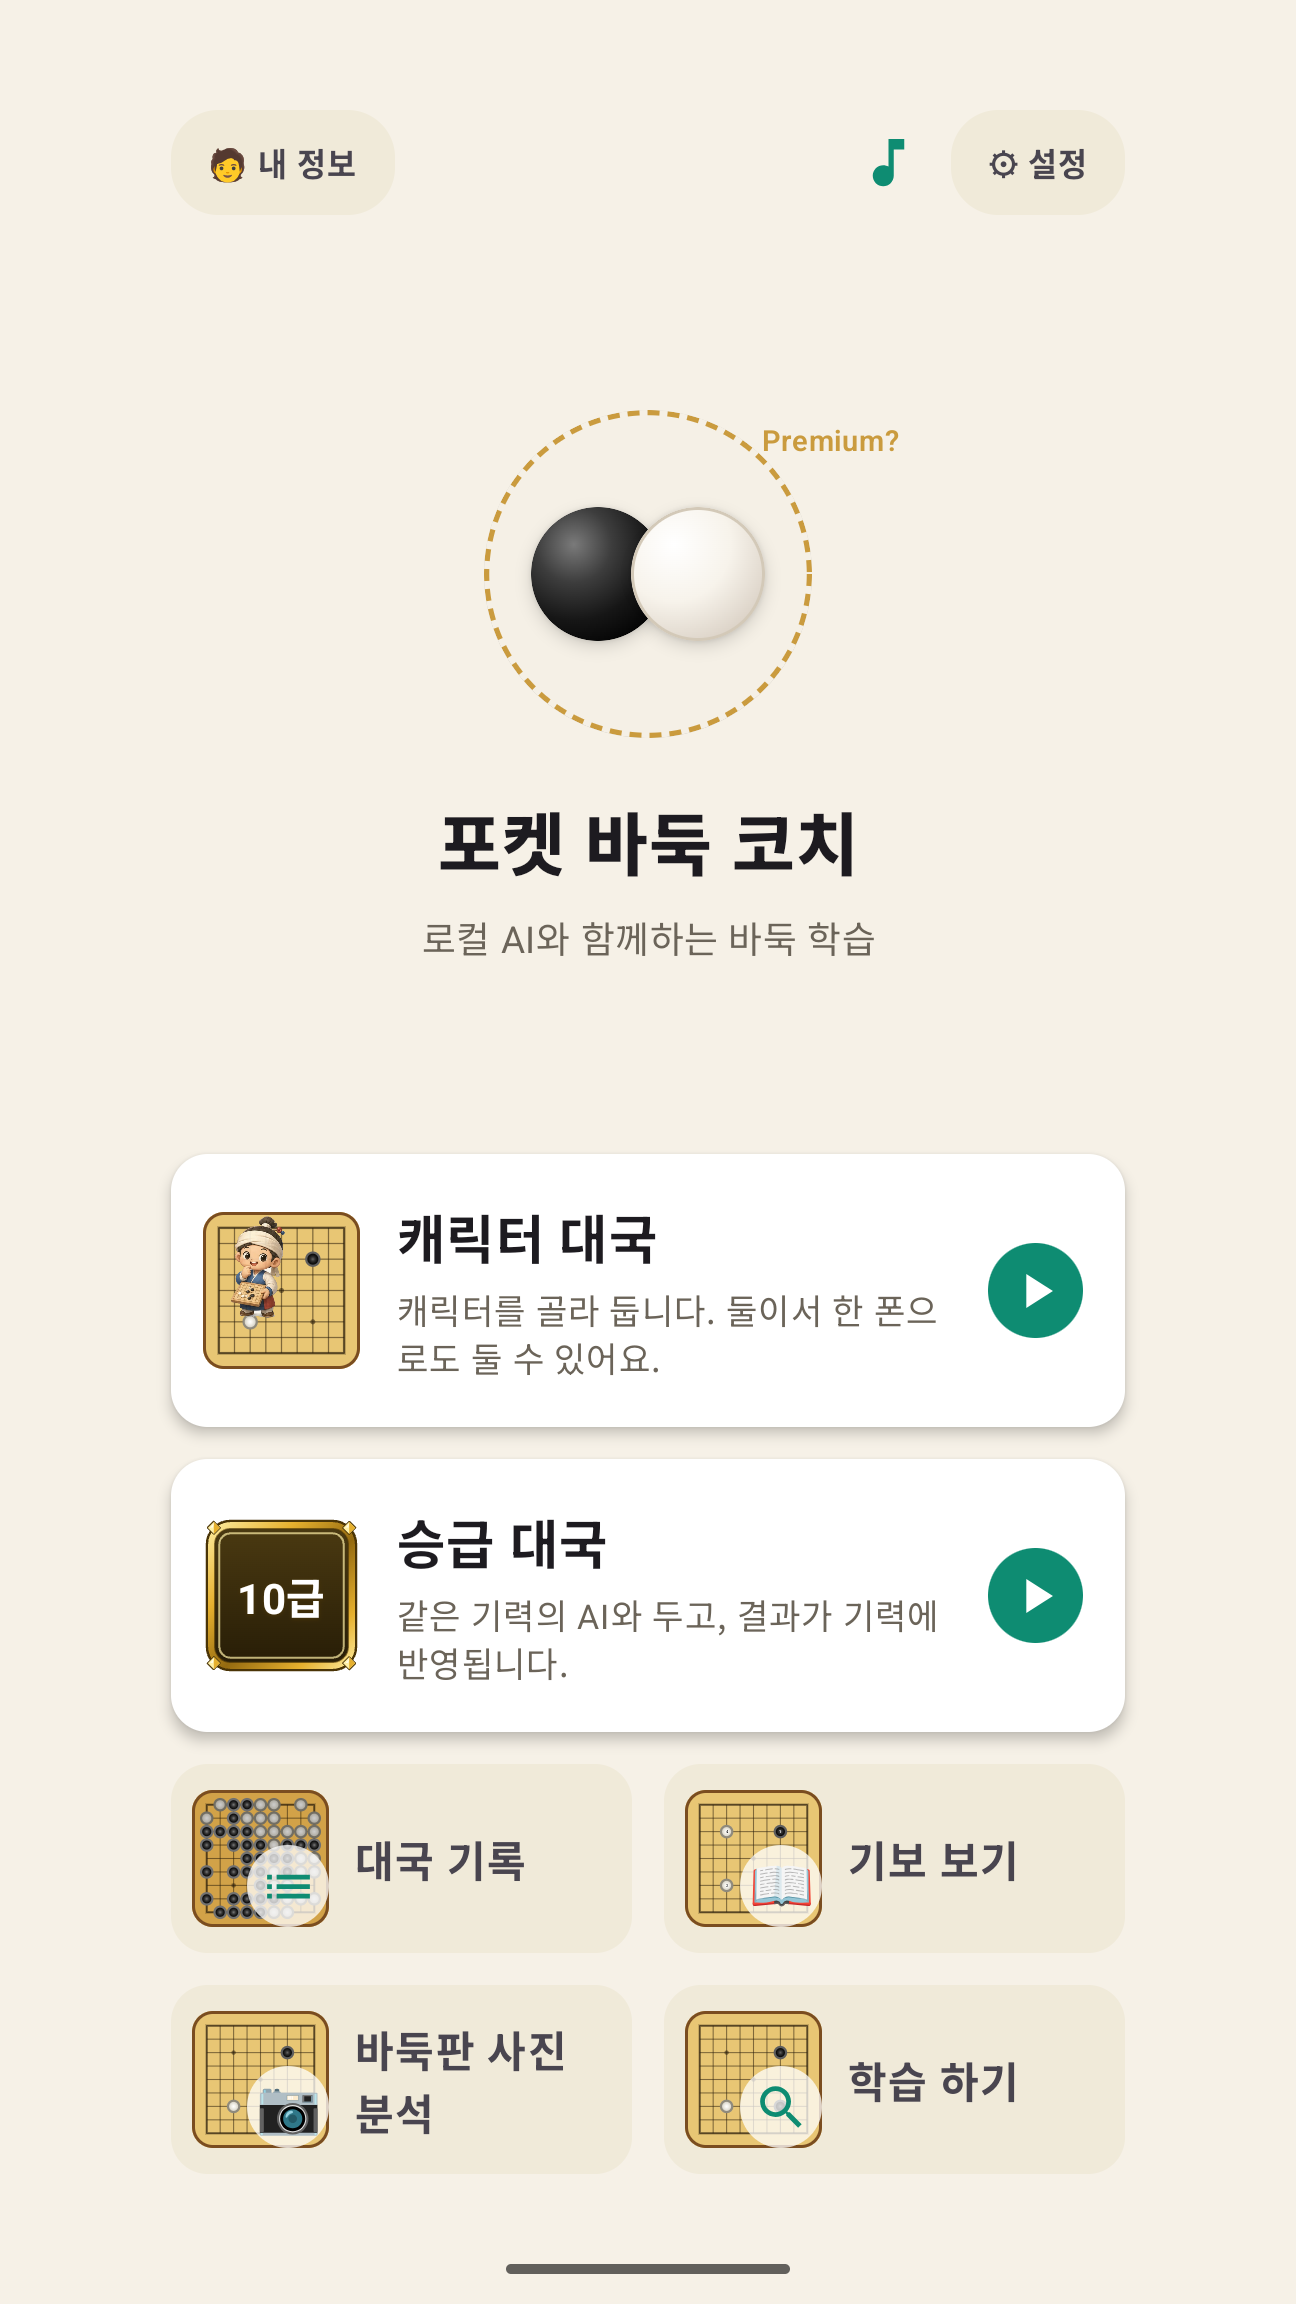
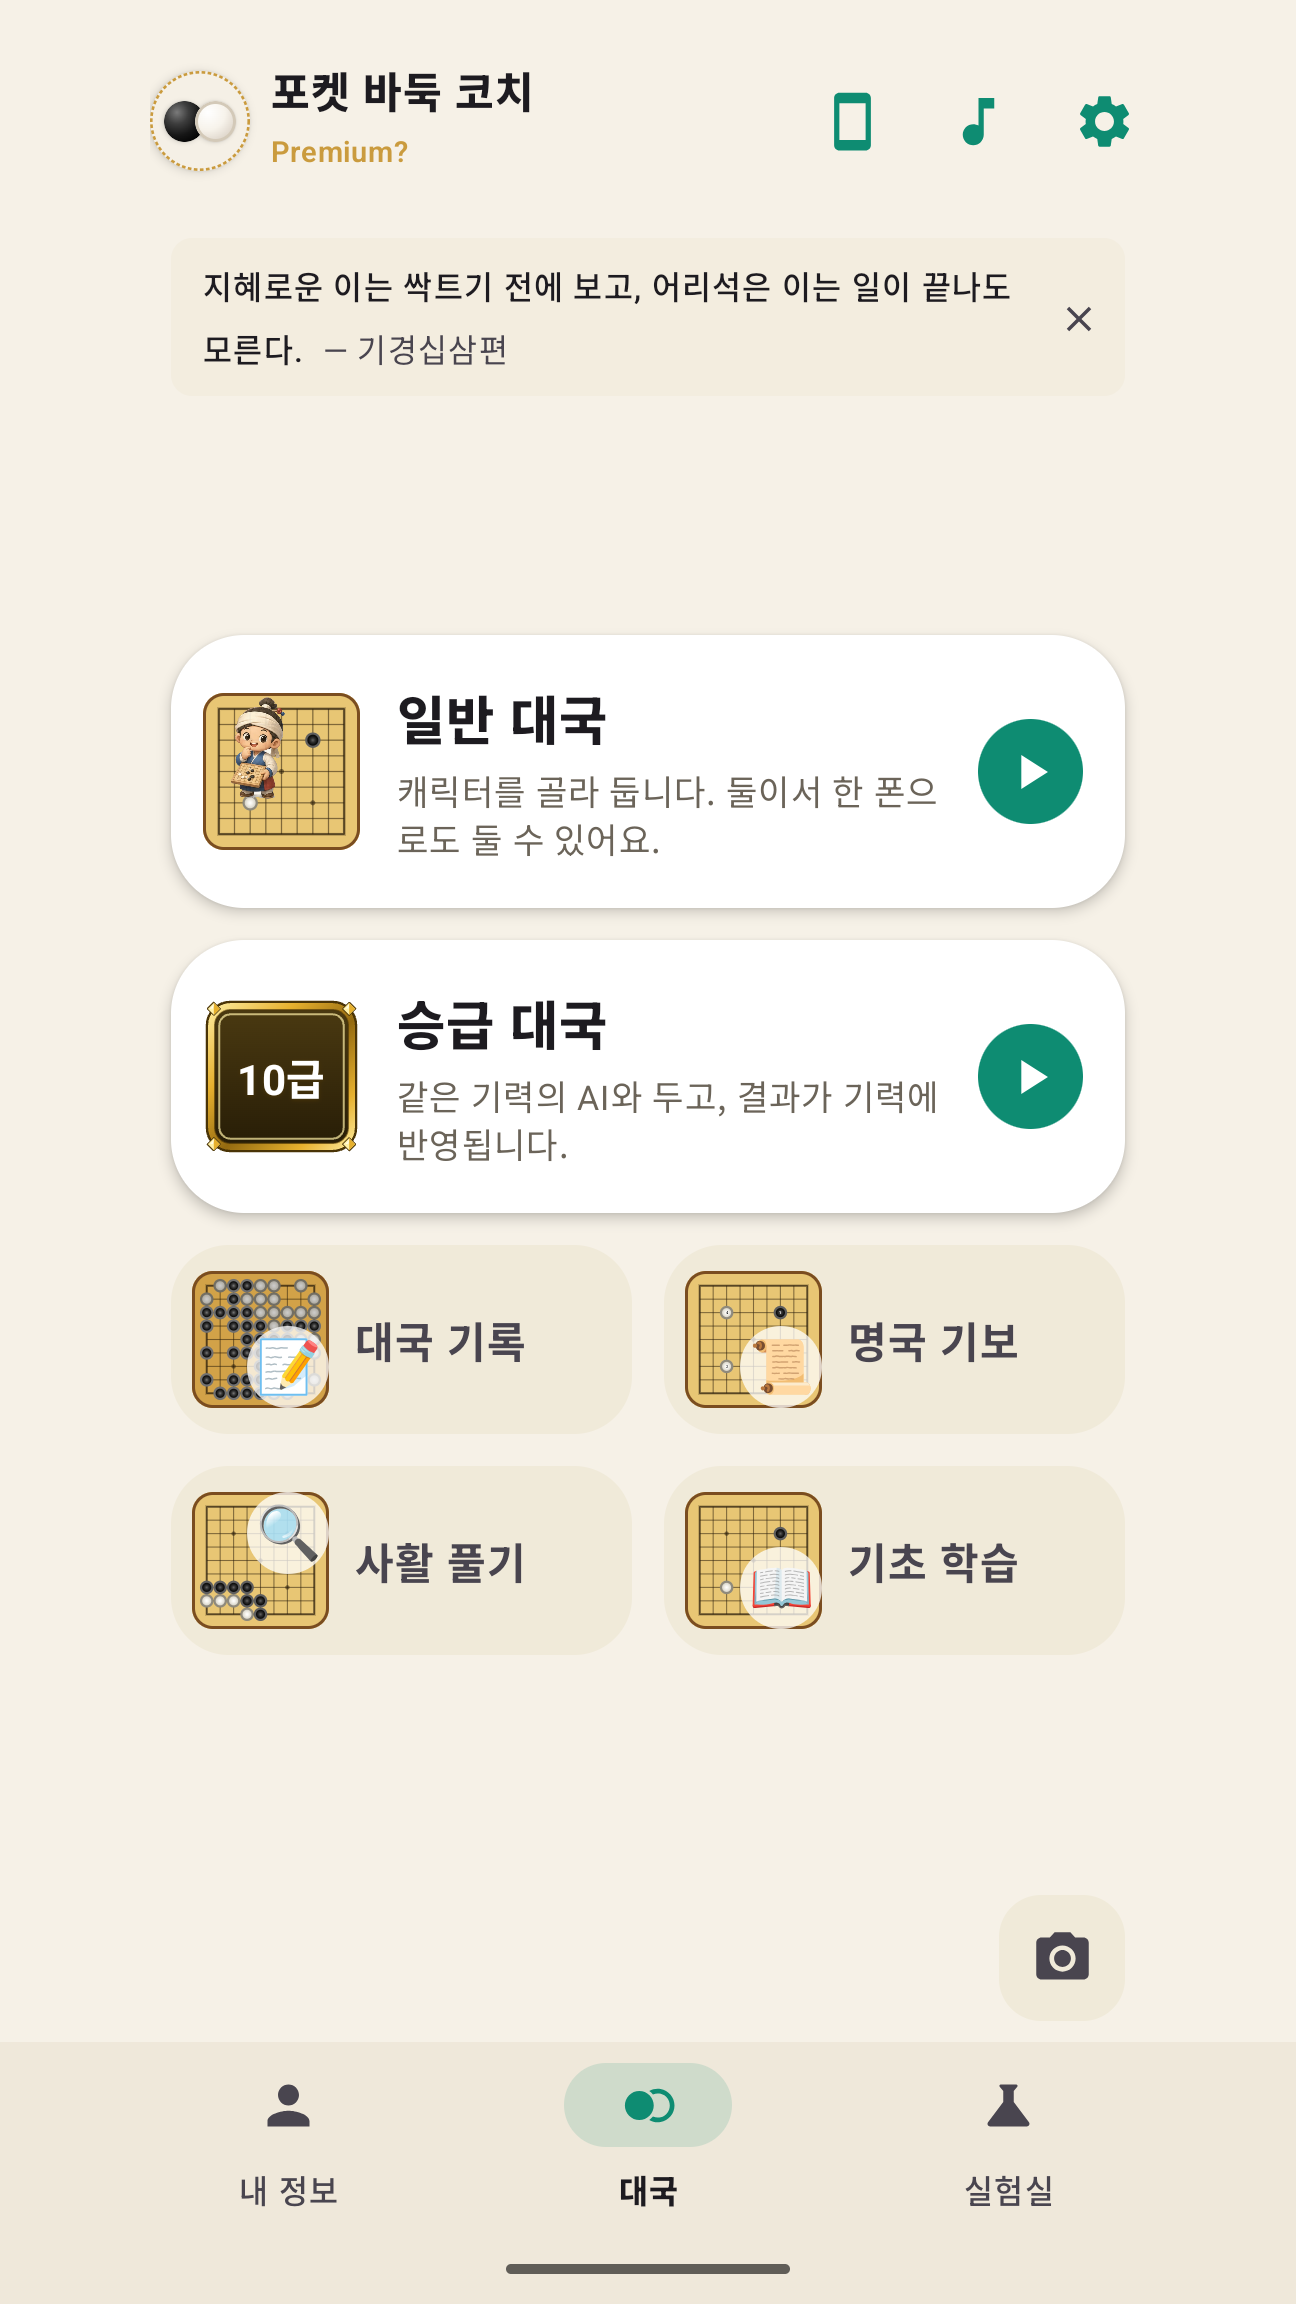
docs(store): 1.8.2 store listing — new screenshot set (home, lab, eval, life and death, famous games, setup, board scan, my info) and 「일반 대국」 / Standard Match in both descriptions (backlog #285)
Eight shots plus two alternates, captured on the emulator from the 1.8.2 dev build (05c905d1), offline, not subscribed; the history index and ticket counts were staged and the app data restored afterwards. The set and its order are the thread's: 05_topmoves (one candidate again) and 07_history left, 02_lab and 04_lifeanddeath came in. The lab shot starts at today's fortune because the quote carousel touches the screen edges and the edge-stretching conversion smears it (kept as alt_lab_quotes). Descriptions: ko 3,102 · en 3,994 characters; the resume detail stayed out of both since English has no room.

diff --git a/work/play-store-assets/README.md b/work/play-store-assets/README.md
@@ -4,7 +4,32 @@
 
 ⚠ **2026-09-13 갱신 — 이 폴더 자체가 정본이다.** 예전엔 이 자리가 `dist/`(gitignore 대상, 로컬 전용)였고 git 추적 정본은 별도로 `design-handoff/export/2026-08-11-v0.1.2/`에 있었다. 그 이원화를 접고 **하나로 합쳤다** — `design-handoff/`는 삭제했고(옛 라운드별 스냅샷은 git 히스토리로만 남는다), 지금 `work/play-store-assets/`가 git에 커밋되는 유일한 사본이자 Play Console에 그대로 올리는 사본이다. 버전 이력은 라운드 폴더를 새로 만들지 않고 git으로 추적하며, 필요하면 날짜 붙인 폴더/파일을 추가할 수 있다(사용자 결정). `AppNameContractTest`가 이 폴더의 `store_listing.txt`를 실제 경로로 읽는다.
 
-## 2026-10-20 — 스크린샷 재캡처 (1.6.0 기준 · 여덟 장 + 대체 한 장)
+## 2026-10-24 — 스크린샷 재캡처 (1.8.2 기준 · 여덟 장 + 대체 둘)
+
+사용자(2026-10-24): *"1.8.2 버전에 맞게 스토어등록정보도 갱신해야겠어. 스샷 찍어줄래?"*. 1.6.0 세트 뒤로 홈이 세 페이지(내 정보 ‹ 대국 › 실험실)가 됐고 아래 탭 · 윗줄의 화면 모드 버튼 ·
+「일반 대국」 · 타일 그림 문자가 붙었고, **사활 풀기**(1.7.0 — 찍은 적이 없다)와 **실험실**(운세 · 1일 1회 뽑기 · 명언록)이 생겼다.
+⚠ **구성 · 순서는 스레드가 정했다** — 1.6.0 세트의 `05_topmoves`(이번에도 추천이 한 곳만 떴다)와 `07_history`를 빼고 `02_lab` · `04_lifeanddeath`를 넣었다. 올릴 때 순서는 사용자가 정한다.
+
+| 파일 | 무엇을 파는가 | 연출 |
+| --- | --- | --- |
+| `01_home` | 정체성 · 세 페이지 홈의 대국 페이지 · 일반 대국 · 승급 대국 · 타일 넷 | 이어하기 없음 · 오늘의 명언 한 줄 |
+| `02_lab` | **1.8** 실험실 — 오늘의 운세 · 1일 1회 뽑기(확률 공개) | 랜덤 운세를 한 번 뽑았다(무료 첫 운세). 「오늘의 운세」 제목부터 뽑기 확률 네 줄까지 |
+| `03_eval` | **차별점** — 대국 중 형세(집) | 대국 기록의 13줄 판(흑 유저 대 수제자 반상) 72수에서 「72수부터 새 대국」 → 형세 보기(무료 3) → 「백 0.6집 우세」. 바둑판은 여백 있는 모양 |
+| `04_lifeanddeath` | **1.7** 사활 풀기 — 틀리면 붉은 점과 응수 | 기본 › 급소 1번에서 일부러 틀린 자리에 두었다 — 「아쉬워요. 이 수로는 백이 삽니다.」 |
+| `05_gamerecords` | 명국 기보 — 형세 영역 · 그래프 · 변곡점 | 1.6.0 세트와 같은 「알파고 대 이세돌 (2016) · 4국」 78수 · 형세 보기(1회권) |
+| `06_setup` | 상대 캐릭터 · 판 · 접바둑 | 흑 유저 / 백 수제자 반상(1급 수준) · 13x13 |
+| `07_boardscan` | 바둑판 사진 분석 | 사진첩의 실물 바둑판 사진(10-15) → 판 자동 찾기 → 「보정한 판」(흑 114 · 백 111) |
+| `08_mypage` | 기력 · 전적 · 내 캐릭터 · 구독 · 출석 · 1회권 | 기록 색인 연출(아래) — 일반 대국 75% · 3승 1패, 승급 대국 50% · 1승 1패 · 1회권 12 · 12 · 2 |
+| `alt_lab_quotes` | 실험실 맨 위 — 명언록 + 운세 — `phone_screenshots/`에만 | ⚠ 명언록 넘기기의 양옆 카드가 화면 끝에 닿아, 변환이 가장자리 열을 늘리면 오른쪽 끝에 늘어진 자국이 생긴다 — 그래서 02로 쓰지 않았다 |
+| `alt_picker` | 상대 고르기(캐릭터 · 급수 · 조각) — `phone_screenshots/`에만 | 수제자 반상 |
+
+- **기록 색인 연출**(`files/game_history/index.json`): 1~3수 테스트 기권을 빼고, AI끼리 끝까지 둔 네 판을 사람 대 캐릭터로(3승 1패), 둘을 승급 대국으로(1승 1패), 날짜를 지난 닷새로 옮겼다. 1회권 수도 12 · 12 · 2로 심었다(테스트 값 99).
+  촬영 뒤 앱 데이터는 백업(tar)으로 되돌렸다.
+- **조건**: 에뮬레이터(1080x2400 · 420dpi · 글자 1.0 · 한국어) · 개발 빌드 1.8.2/10802(`05c905d1`) · 구독하지 않은 계정 · **비행기 모드**(배너가 안 뜨게).
+  변환은 그대로 `scripts/make-store-screenshots.py`. ⚠ 대국 화면 좌상단의 빌드타임 태그(`v261024.0133`)는 릴리스에도 나온다. 세 폴더는 같은 여덟 장이다.
+- ⚠ 에뮬레이터의 화면 캡처를 `/sdcard`에 두면 사진첩에 사진으로 잡힌다 — 사진 분석 컷 전에 지울 것(이번에는 맨 앞 칸에 떴다, 촬영 뒤 지웠다).
+
+## 2026-10-20 — 스크린샷 재캡처 (1.6.0 기준 · 여덟 장 + 대체 한 장) — ⚠ 2026-10-24 세트로 바뀌었다(위)
 
 사용자(2026-10-20): *"앱 스크린샷도 최신 1.6.0 기준으로 새로 찍기"*. 직전 세트(2026-10-08, 1.2.0) 뒤로 화면마다 윗줄에 음표 버튼(#270)이 붙었고,
 홈 타일이 넷(대국 기록 · 기보 보기 · 바둑판 사진 분석 · 학습 하기)이 됐고, **기보 보기**(1.6.0)와 **바둑판 사진 분석**(1.5.0)이 생겼다.

diff --git a/work/plans/GOOGLE_PLAY_LAUNCH_PLAN.md b/work/plans/GOOGLE_PLAY_LAUNCH_PLAN.md
@@ -20,7 +20,8 @@
 > R8 매핑에 `org.opencv.core.CvException` · dex에 새 문구(「둘이서」 · 「AI끼리」 · 二人で対局 · 「새로워진 점」 1.8.2).
 > 번들 뒤에 본 것(같은 소스): 게이트 초록(앱 1,033 — 건너뛴 5는 맥 도구 · shared 1,041 · 엔진 169 · 엔진계약 51) · iOS 컴파일 · #287은 에뮬레이터 360dp에서 확인(승급 대국 · 백 · 19줄 — 한 줄) · 덮어쓰기 고침도 에뮬레이터(승급 대국 → 확인 → 취소 → 이어하기 없음) — 사용자 폰 확인 전.
 > ⚠ **폰에서 볼 것**: 아래 1.8.1 절의 ①~⑨ + ⑩ 「새로워진 점」이 1.8.2 · 1.8.1 · 1.8.0 셋 다 뜨는가 ⑪ 두던 판을 두고 앱을 껐다 켜면 이어하기 알약 둘째 줄이 그 판을 말하는가(승급 · 캐릭터 · 접바둑 · 둘이서) ⑫ 이어하기가 뜬 채 승급 대국 → 확인 → 취소하면 이어하기가 사라지는가(일반 대국과 같게).
-> 콘솔에서 바꿀 것: 출시 노트 **1.8.2**(ko 444자 · en 493자 — 1.8.1 것에 #287을 더했다) · 자세한 설명 한·영(1.8.0 절과 같다). 데이터 보안 답안은 바뀌지 않는다.
+> 콘솔에서 바꿀 것: 출시 노트 **1.8.2**(ko 444자 · en 493자 — 1.8.1 것에 #287을 더했다) · **자세한 설명 한·영 다시 붙여넣기**(실험실 줄 · 「일반 대국」 · Standard Match — ko 3,102자 · en 3,994자, 콘솔 끝의 「개발자 연락처」 줄은 그대로) ·
+> **스크린샷 여덟 장 바꾸기**(2026-10-24 1.8.2 세트 — `work/play-store-assets/README.md` 맨 위 절, 한 장씩 올려야 순서가 맞는다 · 태블릿 두 칸도 같은 여덟 장). 데이터 보안 답안은 바뀌지 않는다.
 > 태그 `v1.8.2`는 프로덕션 승격 뒤에 — **번들 소스 `05c905d1`**에 붙이고(1.6.0처럼 — 버전 커밋 `54c0602e`는 고침 전이라 나간 앱을 재현하지 못한다, 날짜는 둘 다 2026-10-24) 메시지에 위 sha256(`26ab505c…`). rezen.dev는 `1.8.2.yaml`(soon)로 바꾸고 `1.8.1.yaml`은 지운다 — 승격 뒤 `live`로.
 >
 > ## 📍 **1.8.1 번들 (2026-10-24)** · ⛔ 프로덕션에 나가지 않는다 — **1.8.2가 대신 나간다**(사용자 2026-10-24). 버전 커밋 `07800cd6`은 태그 없이 남는다.
